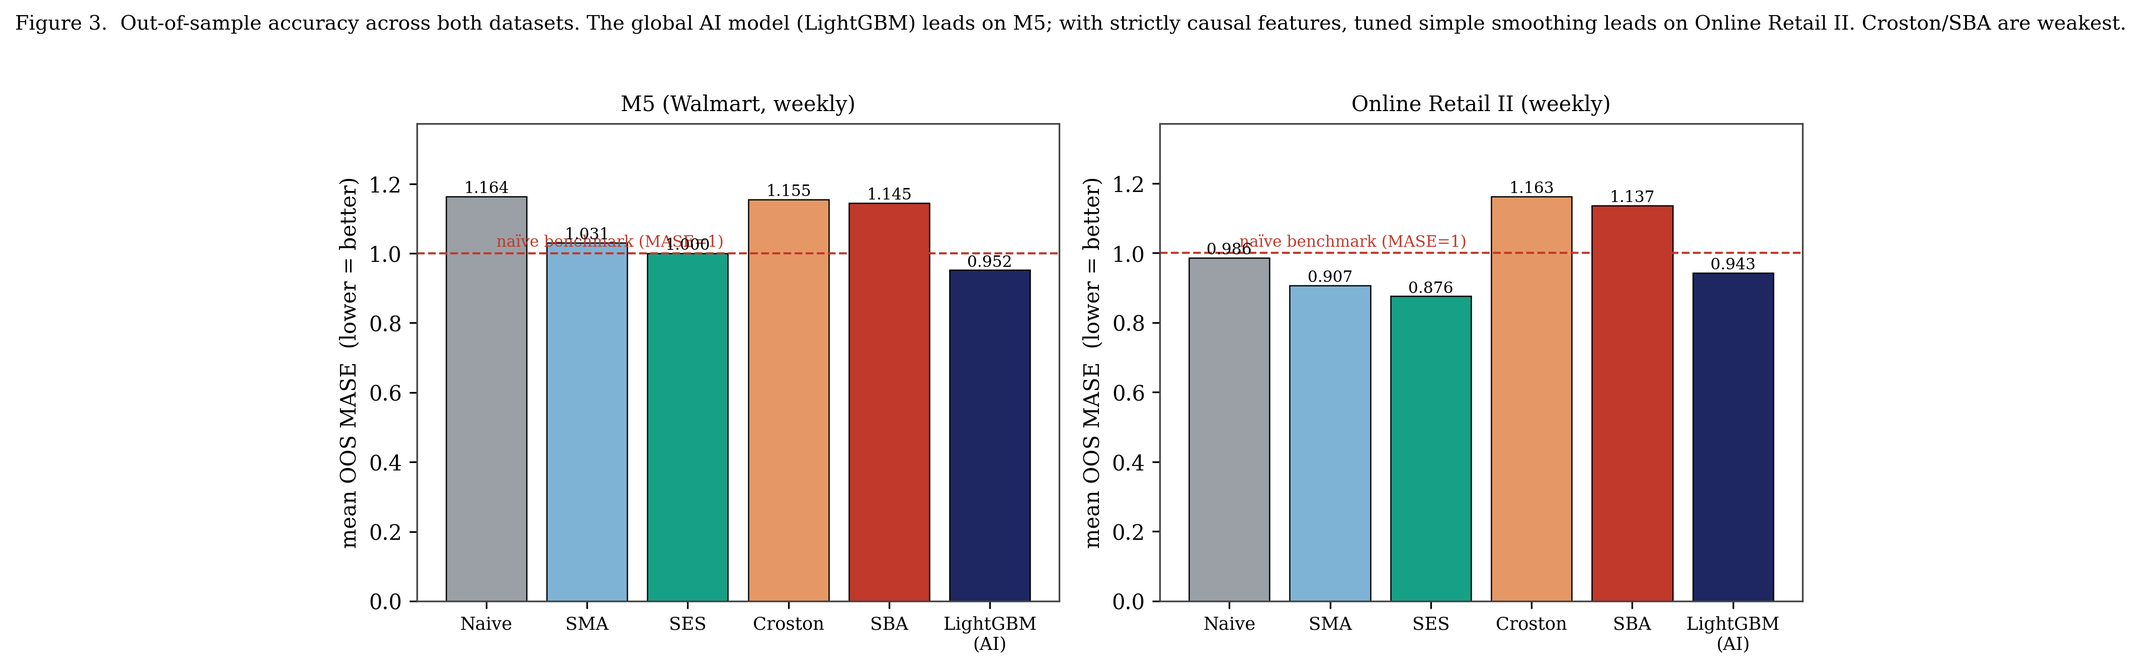
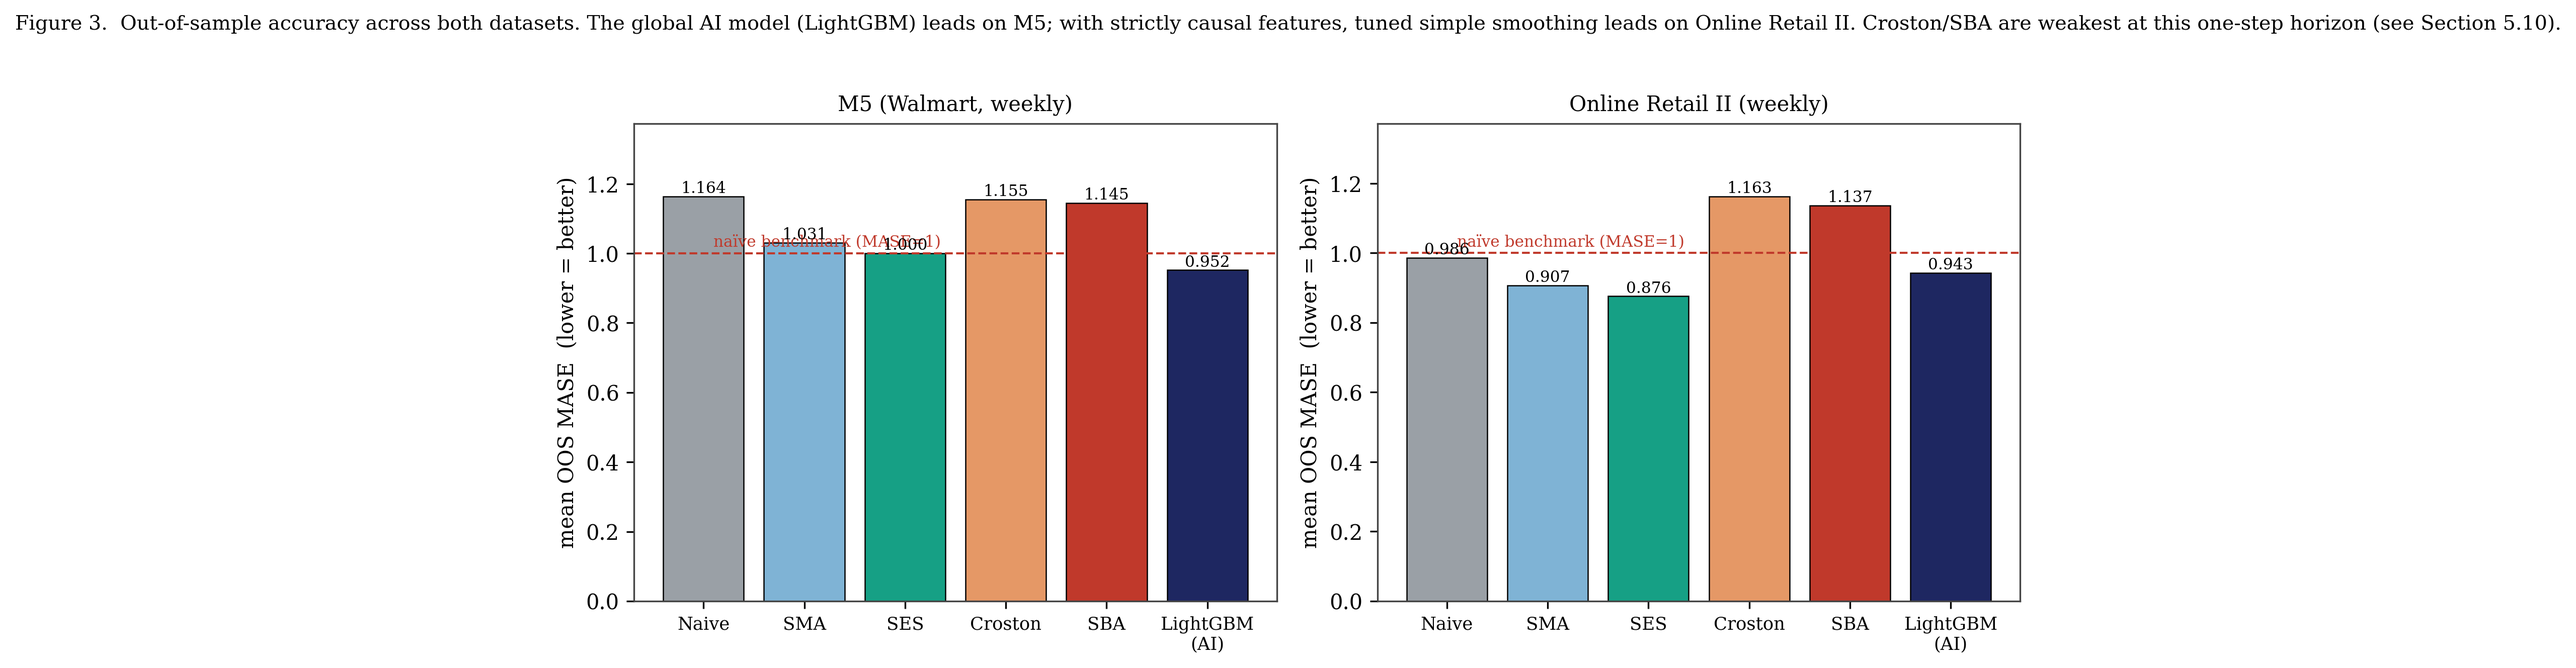
Correct the Figure 6 claim and add the foundation-model literature
Figure 6's suptitle asserted the AI model is "driven mostly by recent-demand
and price signals". Measured from m5_lgbm_importance.csv: the four-week rolling
mean alone carries 66.1% of total gain, the four recent-demand features carry
94.3%, and both price variables together carry 0.78%. The claim was wrong and
it was baked into the PNG, so the caption alone could not fix it. 07_figures.py
now states the measured position, and Section 5.6 and the Figure 6 caption give
the numbers instead of calling price "a secondary contributor".

That same measurement strengthens the leak argument, so Section 5.6 now sets the
23% of gain the price variables carried under the leaked OR2 specification
against the 0.8% they carry on M5, where prices are posted in advance and cannot
reveal the target. The 23% is the signature of the leak rather than evidence of
price response.

New Section 2.6 paragraph on pretrained time-series foundation models, with six
references verified against the arXiv API (title, date, author list): Chronos
2403.07815, TimesFM 2310.10688, Moirai 2402.02592, Lag-Llama 2310.08278,
TimeGPT 2310.03589, MOMENT 2402.03885. Cited by arXiv id only, since arXiv
metadata confirms a venue for MOMENT alone; the others need checking against
their publishers before submission. The paragraph places them outside this
paper's scope and states the prediction the data-sufficiency argument makes
about them.

Also:
  2.6  Zhang, Xia and Xie (2024) now noted as finding the Transformer's
[…]

diff --git a/code/07_figures.py b/code/07_figures.py
@@ -50,7 +50,7 @@ for j,ds in enumerate(['m5','or2']):
     axb.set_xticks(range(4)); axb.set_xticklabels(['Smooth','Intermit.','Erratic','Lumpy'],fontsize=9)
     axb.set_ylabel('% of classifiable series'); axb.set_ylim(0,70)
     for b,v in zip(bars,dist.values): axb.text(b.get_x()+b.get_width()/2,v+1,f'{v:.0f}%',ha='center',fontsize=8)
-    axb.set_title(f'{DSNAME[ds]} — SBC class mix',fontsize=10)
+    axb.set_title(f'{DSNAME[ds]}: SBC class mix',fontsize=10)
 fig.suptitle('Figure 1.  Demand fingerprints: a dense, partly smooth grocery panel (M5) versus a sparse, '
              'predominantly lumpy e-commerce panel (Online Retail II).',fontsize=10,y=1.005)
 fig.tight_layout(); fig.savefig(fr'{FIG}\fig1_fingerprint.png'); plt.close(fig)
@@ -92,7 +92,8 @@ for j,ds in enumerate(['m5','or2']):
     for b,v in zip(bars,ov['mean_MASE']): ax.text(b.get_x()+b.get_width()/2,v+0.01,f'{v:.3f}',ha='center',fontsize=7.5)
     ax.set_ylim(0,max(ov['mean_MASE'])*1.18)
 fig.suptitle('Figure 3.  Out-of-sample accuracy across both datasets. The global AI model (LightGBM) leads on M5; '
-             'with strictly causal features, tuned simple smoothing leads on Online Retail II. Croston/SBA are weakest.',fontsize=9.5,y=1.02)
+             'with strictly causal features, tuned simple smoothing leads on Online Retail II. Croston/SBA are '
+             'weakest at this one-step horizon (see Section 5.10).',fontsize=9.5,y=1.02)
 fig.tight_layout(); fig.savefig(fr'{FIG}\fig3_overall_mase.png'); plt.close(fig)
 print('fig3 done')
 
@@ -137,7 +138,7 @@ for j,ds in enumerate(['m5','or2']):
         col = 'LightGBM' if m=='LightGBM (AI)' else m
         ax.plot(rb['test_weeks'],rb[col],marker='s',ms=4,lw=1.6,color=MCOL[m],label=m)
     ax.set_xlabel('hold-out window (weeks)'); ax.set_ylabel('mean OOS MASE')
-    ax.set_title(f'{DSNAME[ds]} — ranking stability',fontsize=9.5)
+    ax.set_title(f'{DSNAME[ds]}: ranking stability',fontsize=9.5)
     ax.set_xticks(rb['test_weeks'])
     if j==0: ax.legend(fontsize=7,frameon=False,ncol=2)
 # feature importance (M5)
@@ -146,8 +147,9 @@ ax=axes[2]
 ax.barh(range(len(imp)),imp['gain']/imp['gain'].sum()*100,color=NAVY,edgecolor='k',lw=.4)
 ax.set_yticks(range(len(imp))); ax.set_yticklabels(imp['feature'],fontsize=8)
 ax.set_xlabel('% of total gain'); ax.set_title('LightGBM drivers (M5)',fontsize=9.5)
-fig.suptitle('Figure 6.  Ranking is stable across hold-out horizons (left, centre); the AI model is driven mostly '
-             'by recent-demand and price signals (right).',fontsize=9.5,y=1.03)
+fig.suptitle('Figure 6.  Ranking is stable across hold-out horizons (left, centre). On M5 the AI model is driven '
+             'overwhelmingly by recent-demand aggregates; price features carry under 1% of total gain (right).',
+             fontsize=9.5,y=1.03)
 fig.tight_layout(); fig.savefig(fr'{FIG}\fig6_robustness.png'); plt.close(fig)
 print('fig6 done')
 print('All figures saved to', FIG)

diff --git a/code/21_master_report.py b/code/21_master_report.py
@@ -70,7 +70,7 @@ def main():
         master[ds] = {'n_common': n, 'overall_mean_median': overall, 'by_regime': byreg}
 
     # overall table
-    md.append('\n## Overall — mean (median) MASE\n')
+    md.append('\n## Overall: mean (median) MASE\n')
     cols_present = [ds for ds in DATASETS if ds in master]
     md.append('| Method | ' + ' | '.join(f'{DSNAME[ds]} (n={master[ds]["n_common"]})'
                                           for ds in cols_present) + ' |')
@@ -92,7 +92,7 @@ def main():
 
     # by-regime tables
     for ds in cols_present:
-        md.append(f'\n## {DSNAME[ds]} — mean MASE by regime\n')
+        md.append(f'\n## {DSNAME[ds]}: mean MASE by regime\n')
         regs = [r for r in REGIMES if r in master[ds]['by_regime']]
         md.append('| Method | ' + ' | '.join(f'{r} (n={master[ds]["by_regime"][r]["n"]})'
                                               for r in regs) + ' |')

diff --git a/code/19_report_foundation.py b/code/19_report_foundation.py
@@ -44,7 +44,7 @@ def main():
                 fm_labels.append(m)
     methods = ORDER + [m for m in fm_labels]
 
-    out.append('## Overall accuracy — mean (median) MASE, identical neural-eligible series\n')
+    out.append('## Overall accuracy: mean (median) MASE, identical neural-eligible series\n')
     hdr = '| Method | ' + ' | '.join(
         f'{DSNAME[ds]}  (n={avail[ds]["subset_n_all_methods"]})' for ds in DATASETS if ds in avail) + ' |'
     out.append(hdr)

diff --git a/results/master_tables.md b/results/master_tables.md
@@ -3,7 +3,7 @@
 One-step rolling-origin out-of-sample MASE; identical series across all methods (scored by every available method). Lower is better; **bold** = best in column.
 
 
-## Overall — mean (median) MASE
+## Overall: mean (median) MASE
 
 | Method | M5 (Walmart) (n=29574) | Online Retail II (n=4133) |
 |---|---|---|
@@ -19,7 +19,7 @@ One-step rolling-origin out-of-sample MASE; identical series across all methods 
 | Chronos-Bolt-Base (205M) | — | 0.735 (0.285) |
 | TimesFM-200M | — | 0.762 (0.309) |
 
-## M5 (Walmart) — mean MASE by regime
+## M5 (Walmart): mean MASE by regime
 
 | Method | Smooth (n=15408) | Erratic (n=1911) | Intermittent (n=9829) | Lumpy (n=2426) |
 |---|---|---|---|---|
@@ -33,7 +33,7 @@ One-step rolling-origin out-of-sample MASE; identical series across all methods 
 | DeepAR | 0.834 | 0.810 | 1.211 | 1.432 |
 | Chronos-Bolt-Small (48M) | 0.845 | 0.803 | 1.221 | 1.458 |
 
-## Online Retail II — mean MASE by regime
+## Online Retail II: mean MASE by regime
 
 | Method | Smooth (n=93) | Erratic (n=1016) | Intermittent (n=560) | Lumpy (n=2464) |
 |---|---|---|---|---|
